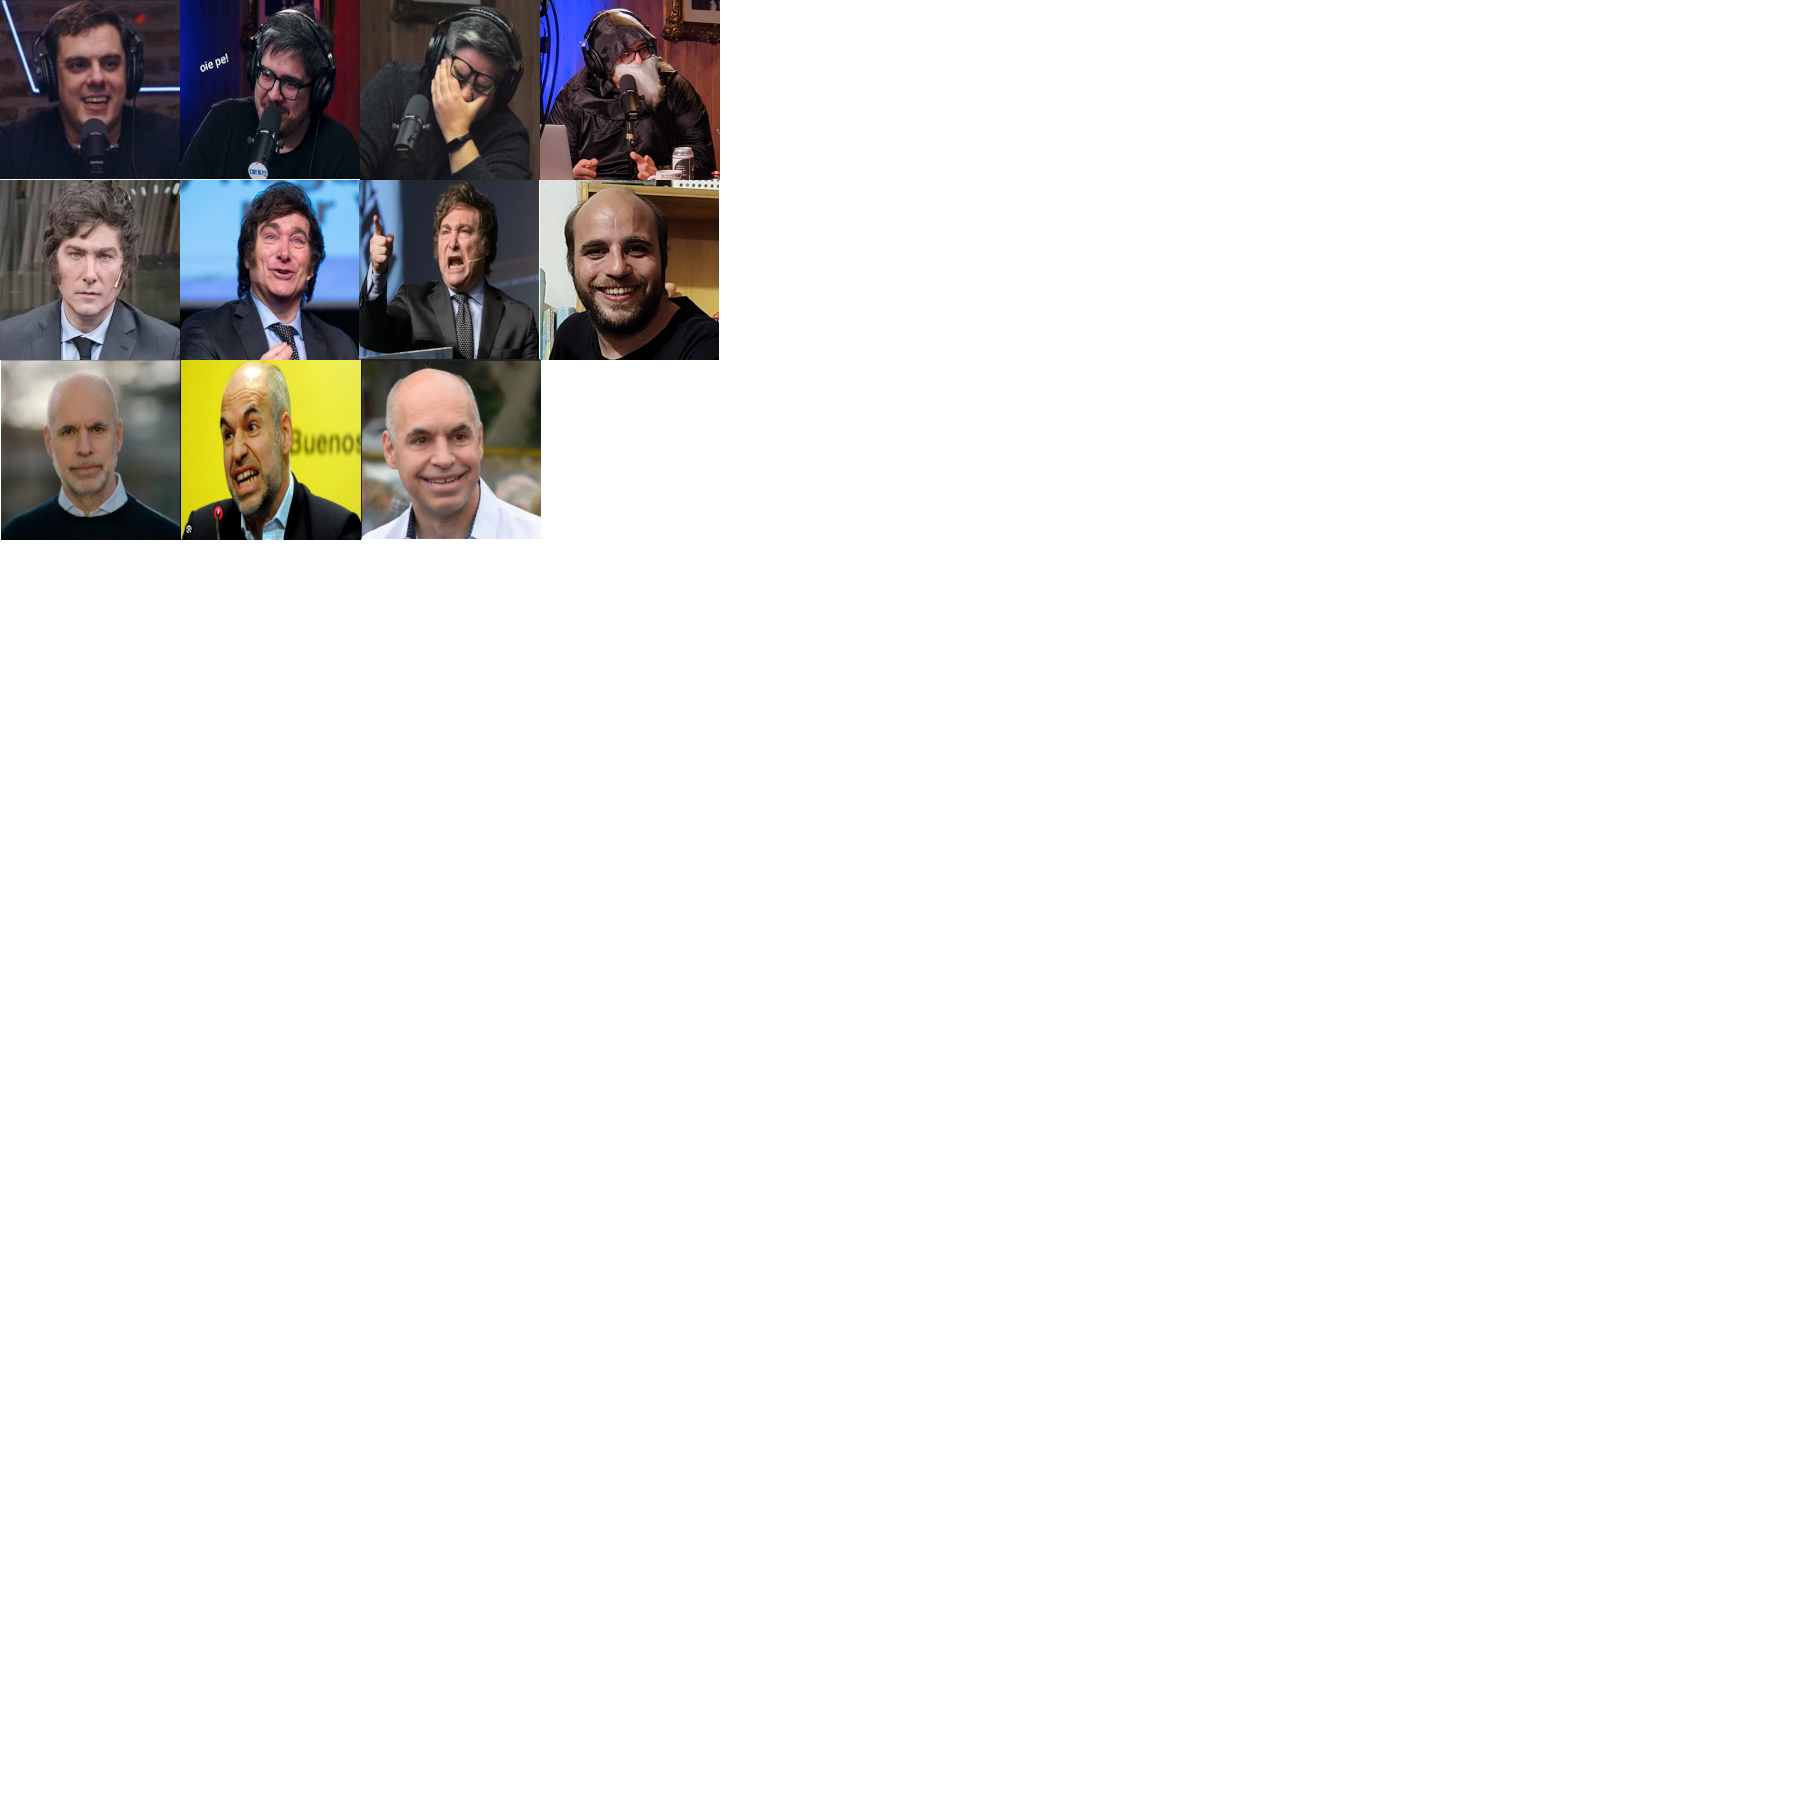
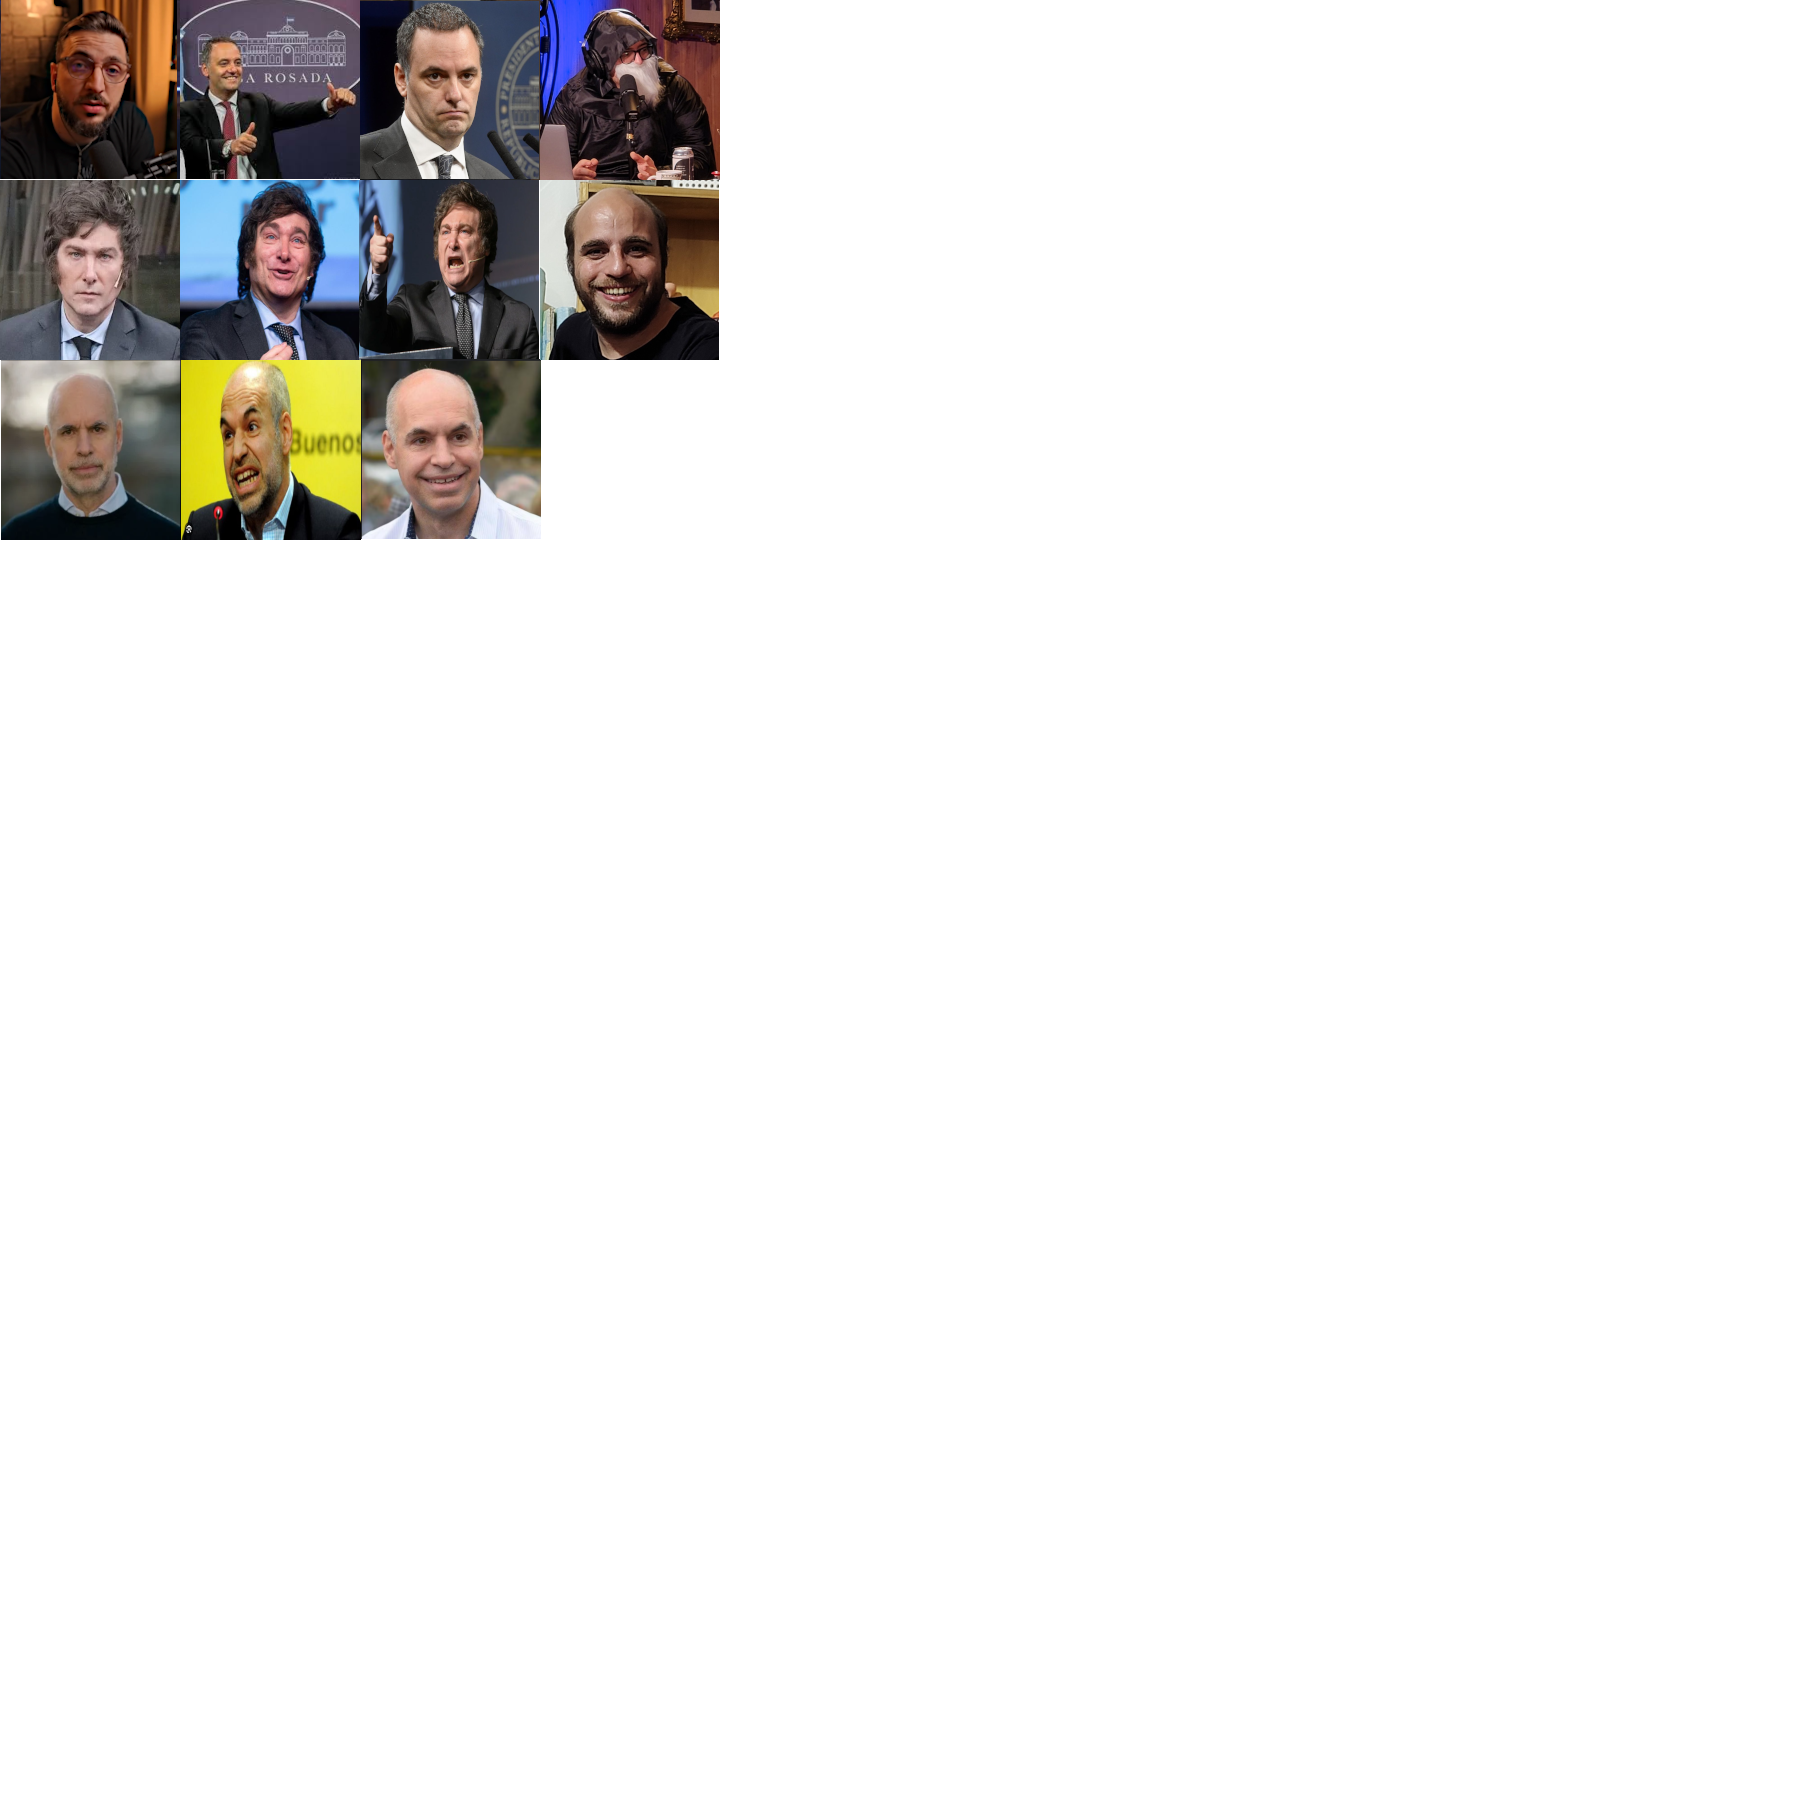
add tipito, adorni and fix some things

Changed region(s): [[0.0, 0.0, 0.3111, 0.1244]]

diff --git a/src/components/game/story-line.ts b/src/components/game/story-line.ts
@@ -9,7 +9,7 @@ const textVariant = (size=30, color="#ffffff") => ({
 	fontFamily: 'Arial', fontSize: size, color,
 });
 
-const legends = ["Peguele presidente", 'Vamo javoooo', 'toma, alien con s**a', 'UUUHHHH'];
+const legends = ["Peguele presidente", 'Vamo javoooo', 'siguiente pregunta', 'UUUHHHH'];
 const getLegend = () => legends[Math.floor(Math.random()*legends.length)];
 
 export class StoryLine extends Phaser.Scene
@@ -20,6 +20,7 @@ export class StoryLine extends Phaser.Scene
     private currentScene?: Game;
     private npcs?: Phaser.Physics.Arcade.StaticGroup;
     private enemies?: Phaser.Physics.Arcade.Group;
+    private activeNPCs?: Phaser.Physics.Arcade.Group;
     public TIME_PAUSE: boolean = false;
     private grayOverlay?: Phaser.GameObjects.Rectangle;
     public dialogBox?: Phaser.GameObjects.Sprite;
@@ -109,7 +110,7 @@ export class StoryLine extends Phaser.Scene
                     this.legend?.forEach(legend => legend.setVisible(true));    
                 }                
                 if((milei as Milei).isAttacking) {
-                    scene.milei?.addCoins(10);
+                    scene.milei?.addCoins(100);
                     (larreta as Hrl).damage();
                     this.dialogBox!.setFrame(1);
                     punch.play();
@@ -142,6 +143,7 @@ export class StoryLine extends Phaser.Scene
         const slItemsLayer = this.currentScene!.map!.getObjectLayer('NPC');
         const slObjectivesLayer = this.currentScene!.map!.getObjectLayer('objective points');
         this.npcs = this.currentScene!.physics.add.staticGroup();
+        this.activeNPCs = this.currentScene!.physics.add.group();
 		const screenCenterX = this.cameras.main.worldView.x + this.cameras.main.width / 2;
 		const screenCenterY = this.cameras.main.worldView.y + this.cameras.main.height / 2;
 		if(this.scale.orientation.toString()==='portrait-primary') {
@@ -171,7 +173,6 @@ export class StoryLine extends Phaser.Scene
             const event = this.storyline!.events.filter(st => st.id === slObj.name).shift();
             if(event && event!.actions) {
                // event.actions(slObj.x!, slObj.y!);
-               console.log(npc, event);
                event!.actions(npc);
             }
 		});
@@ -204,8 +205,14 @@ export class StoryLine extends Phaser.Scene
                 }
                 this.activeStoryIdx = 0;
                 this.runStory();
-            });
-    
+            });    
+        }
+        try {
+            const tipito = this.activeNPCs!.create(400, 300, 'tipitodance');
+            tipito.anims.play('tipito-dancing', true);
+            console.log(tipito);            
+        } catch (error) {
+            console.log(error);
         }
     }
 

diff --git a/src/components/story-line/first-map.ts b/src/components/story-line/first-map.ts
@@ -47,7 +47,9 @@ export const firstMapStoryLine = (scene: Scene) => ({
                     text: "Bien, creo que me pondre en marcha",
                     avatar: "dialog_box",
                     avatarNumber: 10,
-                    action: () => {},
+                    action: () => {
+                        
+                    },
                 },
                 {
                     text: "Cuidado Javo, hay varios aliens en tu camino",
@@ -75,7 +77,7 @@ export const firstMapStoryLine = (scene: Scene) => ({
                     avatarNumber: 12
                 },
                 {
-                    text: "Anulo mufa",
+                    text: "Confiamos en usted presidente",
                     avatar: "dialog_box",
                     avatarNumber: 1
                 },
@@ -125,7 +127,7 @@ export const firstMapStoryLine = (scene: Scene) => ({
                         avatarNumber: 0
                     },
                     {
-                        text: "Gracias gordo, todavia queda mas",
+                        text: "Gracias tipito, todavia queda mas",
                         avatar: "dialog_box",
                         avatarNumber: 11
                     },

diff --git a/src/components/anims/character-anims.ts b/src/components/anims/character-anims.ts
@@ -21,6 +21,9 @@ const createCharacterAnims = (anims: Phaser.Animations.AnimationManager) => {
     anims.create({ key: 'hrl-fight-down', frames: anims.generateFrameNumbers('larreta', { start:144, end:151}),frameRate:12, repeat:-1})
 
     anims.create({ key: 'morcilla-walk-down', frames: anims.generateFrameNumbers('morcilla', { start:26, end:32}),frameRate:9, repeat:-1})
+
+    anims.create({ key: 'tipito-dancing', frames: anims.generateFrameNumbers('tipitodance', { start:0, end:17}), frameRate:9, repeat:-1})
+
 }
 
 export {

diff --git a/src/components/scene/preloader/index.ts b/src/components/scene/preloader/index.ts
@@ -41,6 +41,7 @@ export class Preloader extends Scene
         this.load.spritesheet('superMilei', 'spriteSuperMilei.png',{ frameWidth:64, frameHeight:64 });      
         this.load.spritesheet('larreta', 'sprite_hrl.png',{ frameWidth:64, frameHeight:64 });      
         this.load.spritesheet('dialog_box', 'dialog_box.png',{ frameWidth:180, frameHeight:180 });
+        this.load.spritesheet('tipitodance', 'FUERA_MILEI2.png',{ frameWidth:64, frameHeight:64 });
 
         this.load.image({
             key: 'firstmap',

diff --git a/src/components/character/milei.ts b/src/components/character/milei.ts
@@ -14,7 +14,7 @@ export default class Milei extends Phaser.Physics.Arcade.Sprite
 	private damageTime = 0
 
 	private _health = 150
-	private _coins = 0;
+	private _coins = 5000;
     private orientation = "down";
     public isAttacking = false;
 	private pause:boolean = false;
@@ -76,7 +76,7 @@ export default class Milei extends Phaser.Physics.Arcade.Sprite
 	}
 
 	addCoins = (coins:number) => {
-		this._coins+=coins;
+		this._coins-=coins;
 	}
 
 	getCoins = () => this._coins;

diff --git a/src/components/character/hrl.ts b/src/components/character/hrl.ts
@@ -58,7 +58,6 @@ export default class Hrl extends Phaser.Physics.Arcade.Sprite
 	damage = () => {
 		this.health-=1;
 		this.setTint(0xff0000);
-		console.log('hrl health', this.health);
 		this.setVelocity(0, 0);
 		this.anims?.pause();
 		this.scene.time.addEvent({
